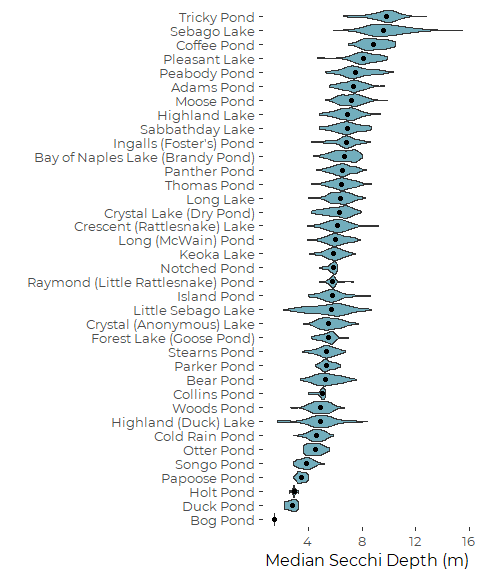
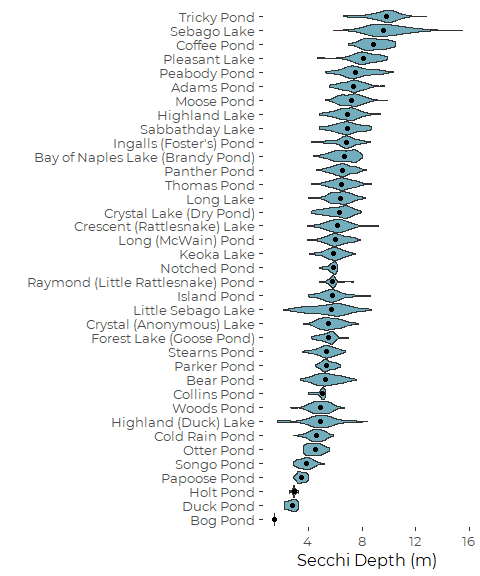
Revise Secchi graphic axis label

Changed region(s): [[0.5625, 0.9375, 0.9688, 1.0]]

diff --git a/Graphics/Secchi_Recent_Graphics.md b/Graphics/Secchi_Recent_Graphics.md
@@ -395,7 +395,7 @@ plt <- secchi_data %>%
                fun.max = function(.x) {
                  median(.x, na.rm= TRUE) + mad(.x, na.rm = FALSE) }) + 
 
-  ylab('Median Secchi Depth (m)') +
+  ylab('Secchi Depth (m)') +
   xlab('') +
   
   theme_cbep(base_size = 12) +
@@ -425,7 +425,7 @@ plt <- secchi_data %>%
   stat_summary(geom = 'point', fun = median,
              pch = 19) +
   
-  ylab('Median Secchi Depth (m)') +
+  ylab('Secchi Depth (m)') +
   xlab('') +
   
   theme_cbep(base_size = 12) +
